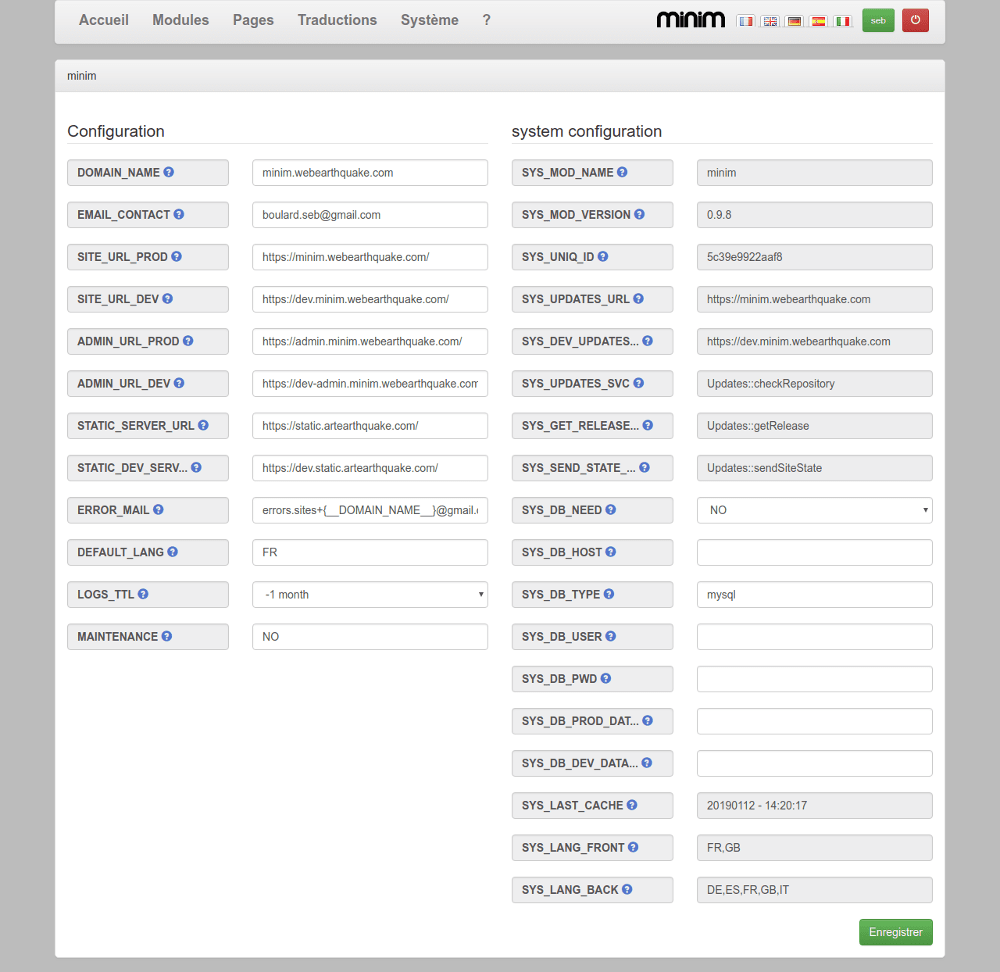
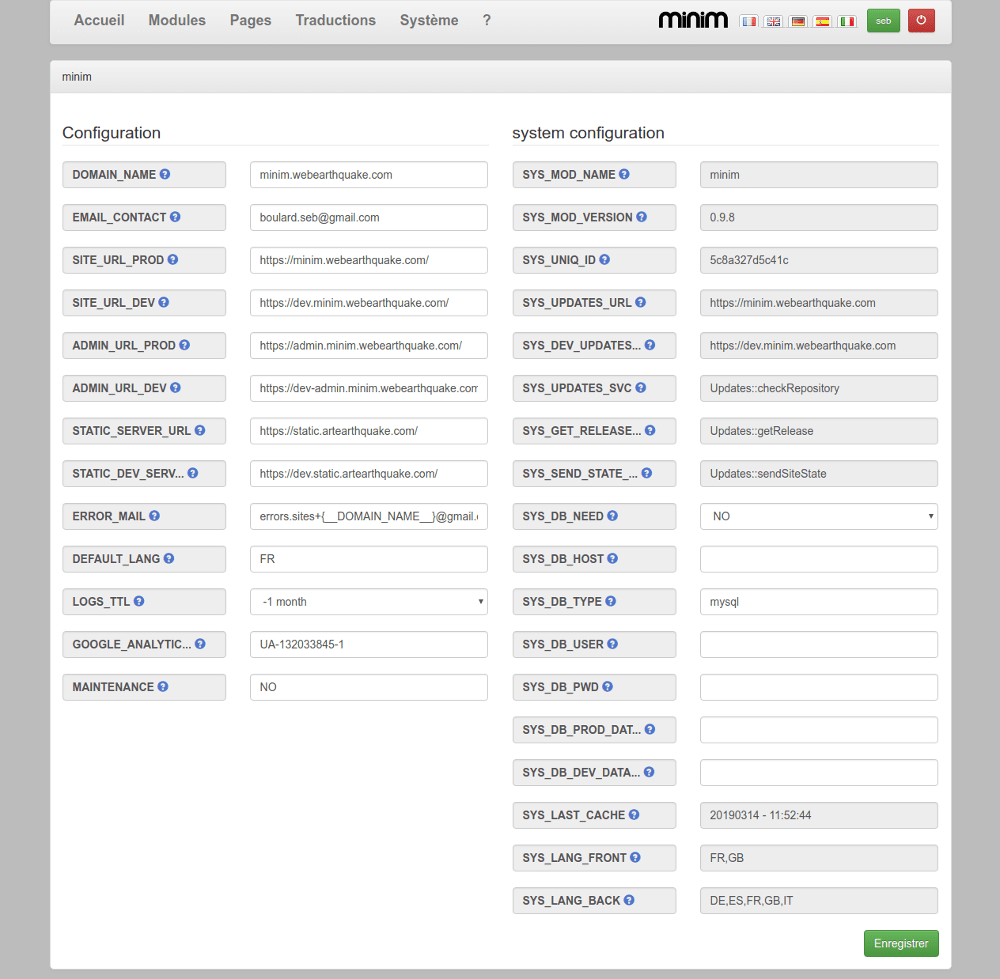
move google analytics tag in minim conf

diff --git a/Core/modules/Websiteproperties/data/articles/configurations.html b/Core/modules/Websiteproperties/data/articles/configurations.html
@@ -25,6 +25,7 @@
 			<li><strong>ERROR_MAIL :</strong> L'email du contact concerné par les erreurs de l'application.</li>
 			<li><strong>DEFAULT_LANG :</strong> La langue par défaut de l'application.</li>
 			<li><strong>LOGS_TTL :</strong> La durée de vie des logs d'erreurs.</li>
+			<li><strong>GOOGLE_ANALYTICS_TAG :</strong> Identifiant Google analytics.</li>
 			<li><strong>MAINTENANCE :</strong> Si l'application est en maintenance ou non.</li>
 			<li><strong>SYS_DB_NEED :</strong> Si l'application nécessite une base de données.</li>
 			<li><strong>SYS_DB_HOST :</strong> Adresse de la basse de données.</li>
@@ -44,9 +45,27 @@
                     <img src="/img/contents/doc/minimConf.png" alt="interface de configuration de minim" class="img-rounded" />
                 </a>
 			</p>
+			<p class="txt-center">
+				<a href="/img/contents/doc/minimConfXml.png" rel="cbox" title="fichier de configuration de minim" class="cbox">
+                    <img src="/img/contents/doc/minimConfXml.png" alt="fichier de configuration de minim" class="img-rounded" />
+                </a>
+			</p>
 		</div>
 	</aside>
 	<!-- /Sidebar -->
+</div>
+<div class="row">
+	<article class="col-sm-8 maincontent">
+		<h3>Nouvelle valeur</h3>
+		<p>Pour ajouter une valeur en configuration, il vous suffit de rajouter un nœud dans le fichier XML de configuration du module concerné (minim par défaut).</p>
+		<p>Vous pouvez définir une liste de choix en ajoutant un attribut "options" à ce nœud.</p>
+		<p>Vous avez la possibilité de séparer vos options possibles par :</p>
+		<ul class="cog-tools">
+			<li>des "|" pour un choix unique, qui seront proposées dans un champs de type "select"</li>
+			<li>des "," pour un choix multiple, qui seront proposées sous forme de checkbox.</li>
+		</ul>
+	</article>
+	<!-- /Article -->
 </div>
 <hr />
 <div class="row">

diff --git a/js/minim.functions.js b/js/minim.functions.js
@@ -150,7 +150,7 @@ function loadHtml(sPage) {
 		}
 		/* google analytics */
 		if(sPage !== 'menu' && sPage !== 'player' && typeof(gtag) !== 'undefined') {
-			gtag('config', 'UA-132033845-1', {
+			gtag('config', $('meta[name=GOOGLE_ANALYTICS_TAG]').attr("content"), {
 				'page_title' : 'sPage',
 				'page_path': '/'+sLang+'/'+sPage.replace('_', '/')+'.html'
 			 });

diff --git a/Core/modules/Websiteproperties/js/websiteproperties.front.functions.js b/Core/modules/Websiteproperties/js/websiteproperties.front.functions.js
@@ -12,7 +12,7 @@ function updateArticle(article_id, mainPage) {
 	}
 	$(".cbox").colorbox({rel:'cbox'});
 	if(typeof gtag !== 'undefined') {
-		gtag('config', 'UA-132033845-1', {
+		gtag('config', $('meta[name=GOOGLE_ANALYTICS_TAG]').attr("content"), {
 			page_title : article_id,
 			page_path: '/'+getLang()+'/'+mainPage+'/'+article_id
 		});

diff --git a/Core/lib/Core/class.MetasTags.php b/Core/lib/Core/class.MetasTags.php
@@ -28,7 +28,8 @@ final class MetasTags {
 											'msvalidate_01'=>'msvalidate.01',
 											'keywords'=>'keywords',
 											'author'=>'author',
-											'google-site-verification'=>'google-site-verification'
+											'google-site-verification'=>'google-site-verification',
+											'GOOGLE_ANALYTICS_TAG'=>'GOOGLE_ANALYTICS_TAG'
 										);
 	public static $aOgList = array(
 				'type',
@@ -63,6 +64,14 @@ final class MetasTags {
 		} else {
 			$sRobots = 'noindex,nofollow';
 		}
+		$oConfig = new Config();
+		$mGoogleAnalyticsTag = $oConfig->getGlobalConf('GOOGLE_ANALYTICS_TAG');
+		if(is_array($mGoogleAnalyticsTag) || !$mGoogleAnalyticsTag) {
+			$mGoogleAnalyticsTag = false;
+		} else {
+			self::$aPageConfig['meta']['GOOGLE_ANALYTICS_TAG'] = $mGoogleAnalyticsTag;
+		}
+		unset($oConfig);
 		$sMetas = Minifier::genericMinify(
 									str_replace(
 											array(
@@ -92,8 +101,12 @@ final class MetasTags {
 											file_get_contents(INC_TPL_PATH.'metaTags.tpl')
 										)
 									);
-		if (!DEV && !ADMIN) {
-			$sMetas .= file_get_contents(DATA_PATH.'google-analytics.tpl');
+		if (!DEV && !ADMIN && $mGoogleAnalyticsTag !== false) {
+			$sMetas .= str_replace(
+							'{__GOOGLE_ANALYTICS_TAG__}', 
+							$mGoogleAnalyticsTag, 
+							file_get_contents(INC_TPL_PATH.'google-analytics.tpl')
+						);
 		}
 		return $sMetas;
 	}
